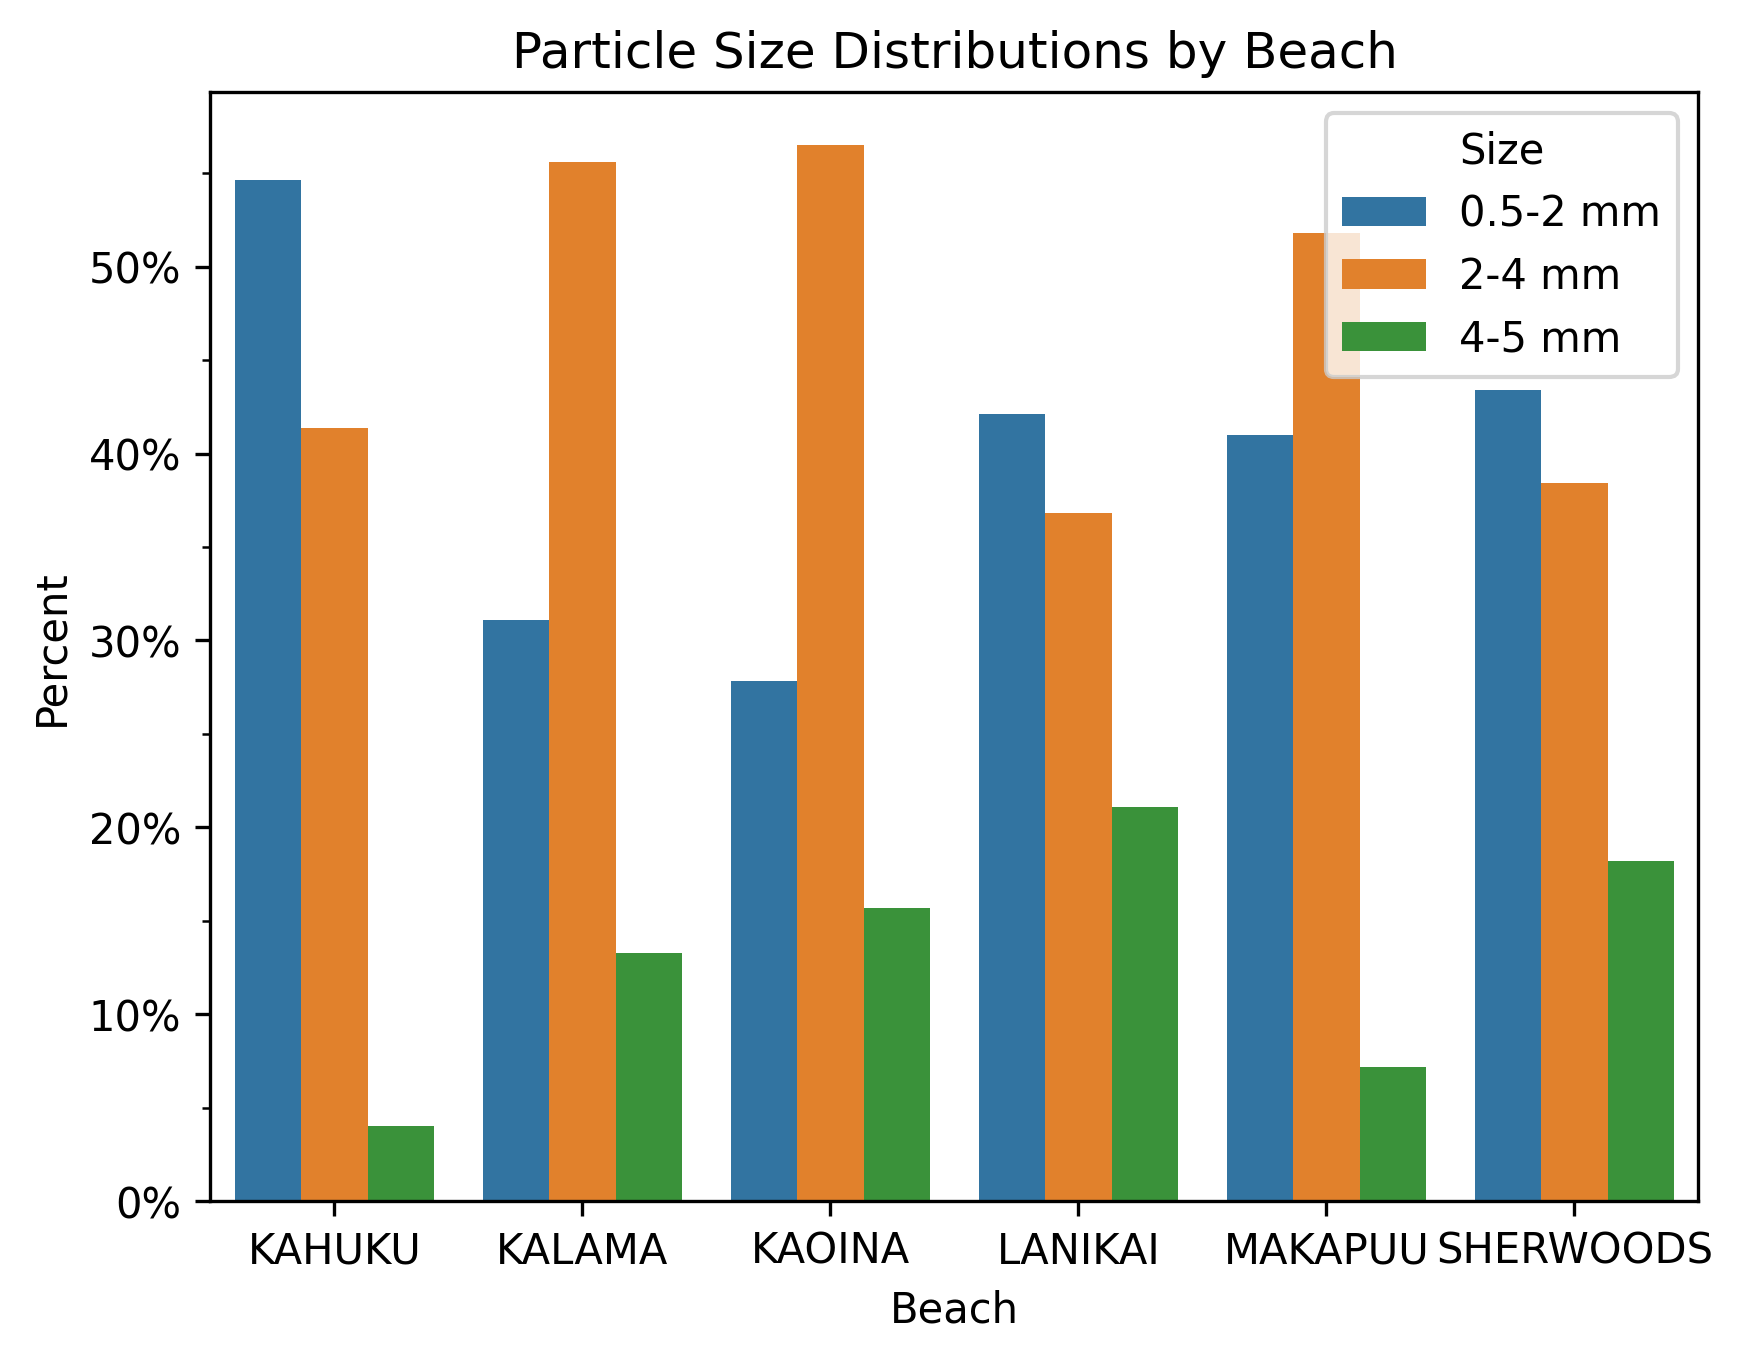
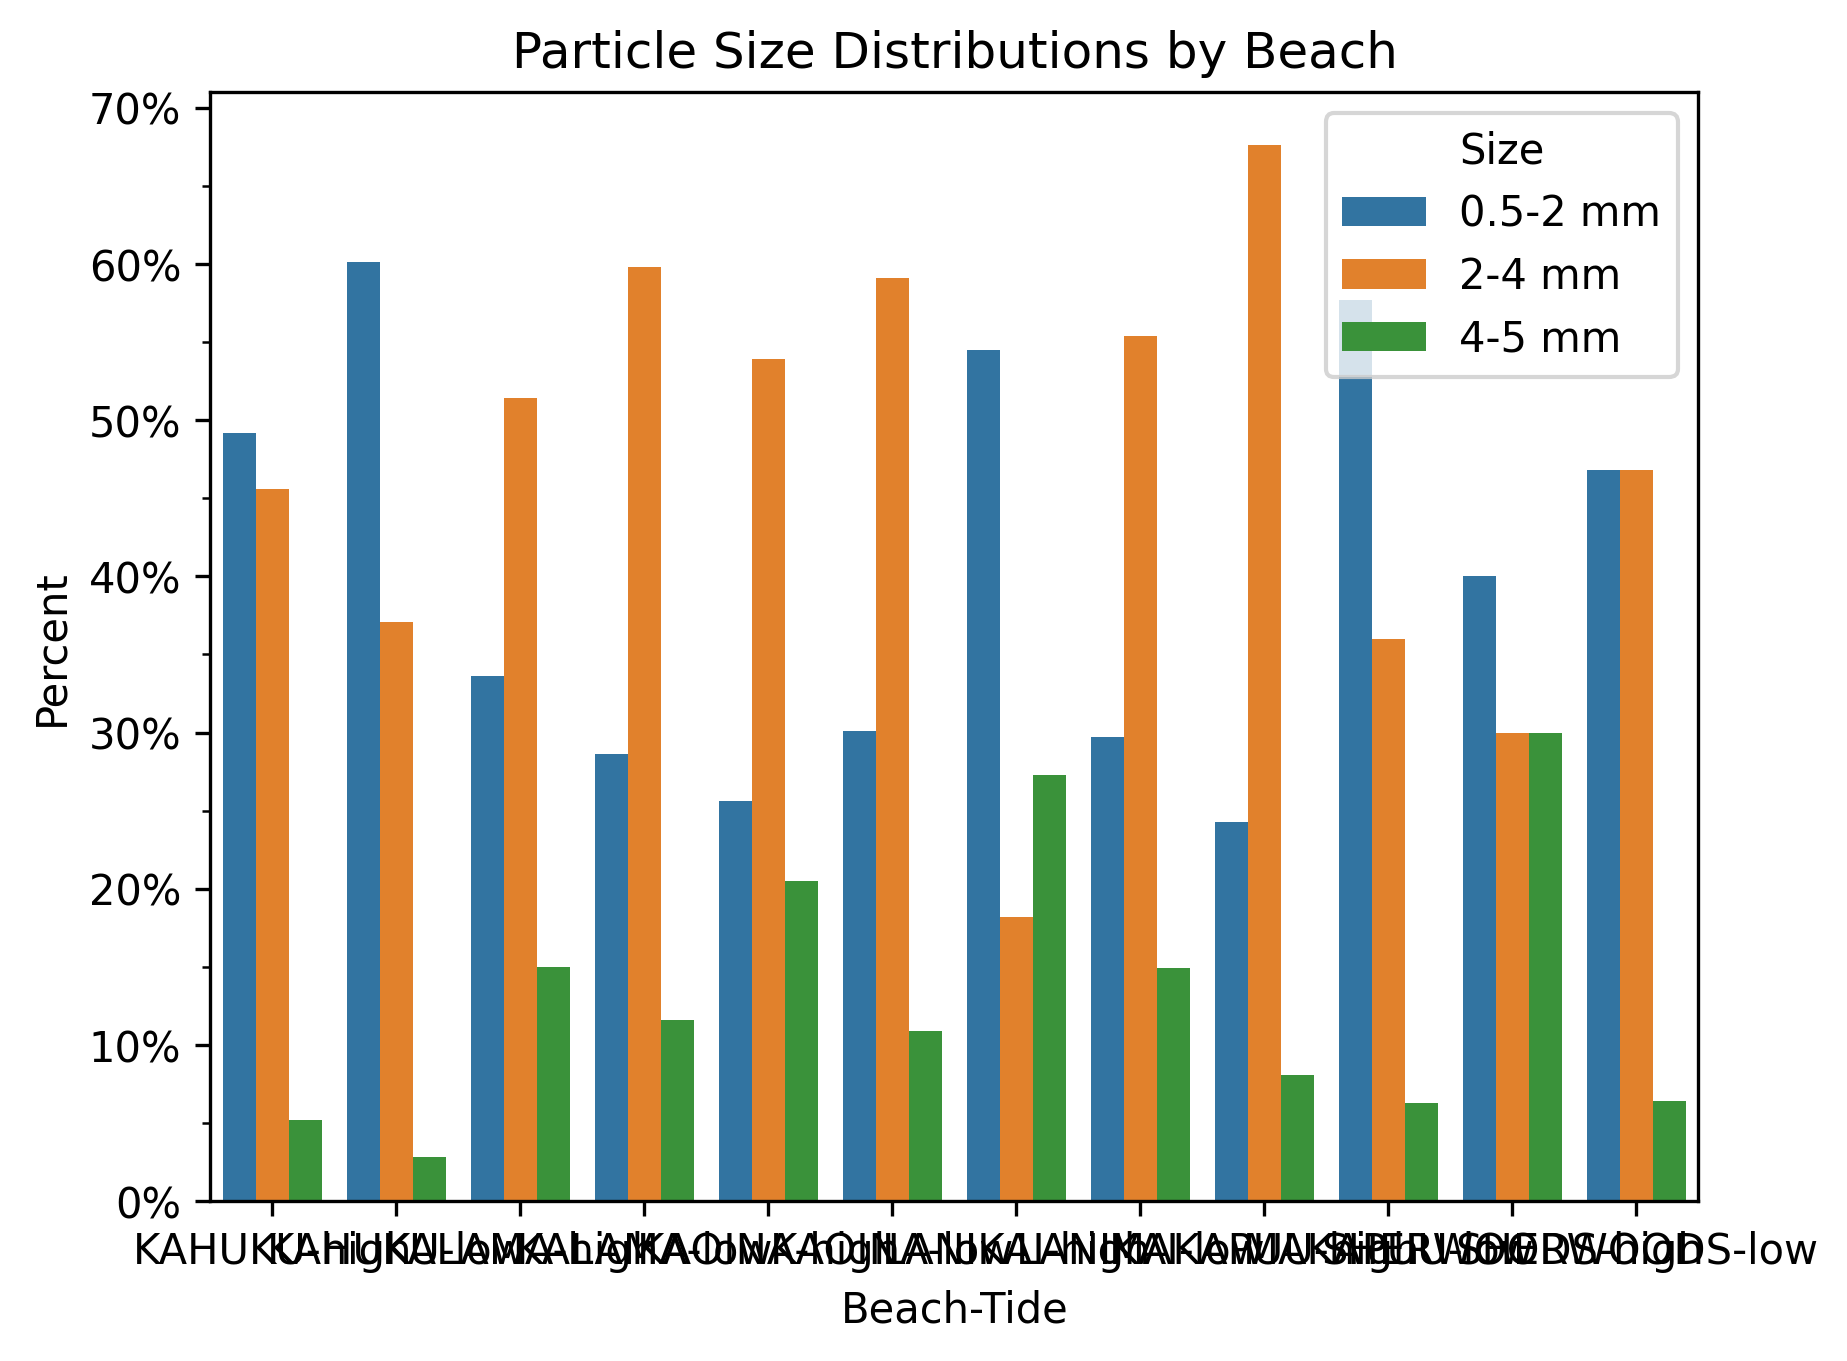
Tide dimension added to barplot

diff --git a/size_distributions.py b/size_distributions.py
@@ -10,10 +10,11 @@ data.rename(columns={"variable":"Size","value":"Percent"},inplace=True)
 data.sort_values(by=["Beach","Tide"],inplace=True)
 data.reset_index()
 print(data)
-
+data["Beach-Tide"] = data["Beach"]+'-'+data["Tide"]
+data = data.sort_values(by="Beach-Tide")
 fig,ax = plt.subplots()
 
-sns.barplot(data=data,x="Beach",y="Percent",hue="Size",errorbar=None)
+sns.barplot(data=data,x="Beach-Tide",y="Percent",hue="Size",errorbar=None)
 plt.title("Particle Size Distributions by Beach")
 ax.yaxis.set_major_locator(MultipleLocator(10))
 ax.yaxis.set_minor_locator(MultipleLocator(5))
